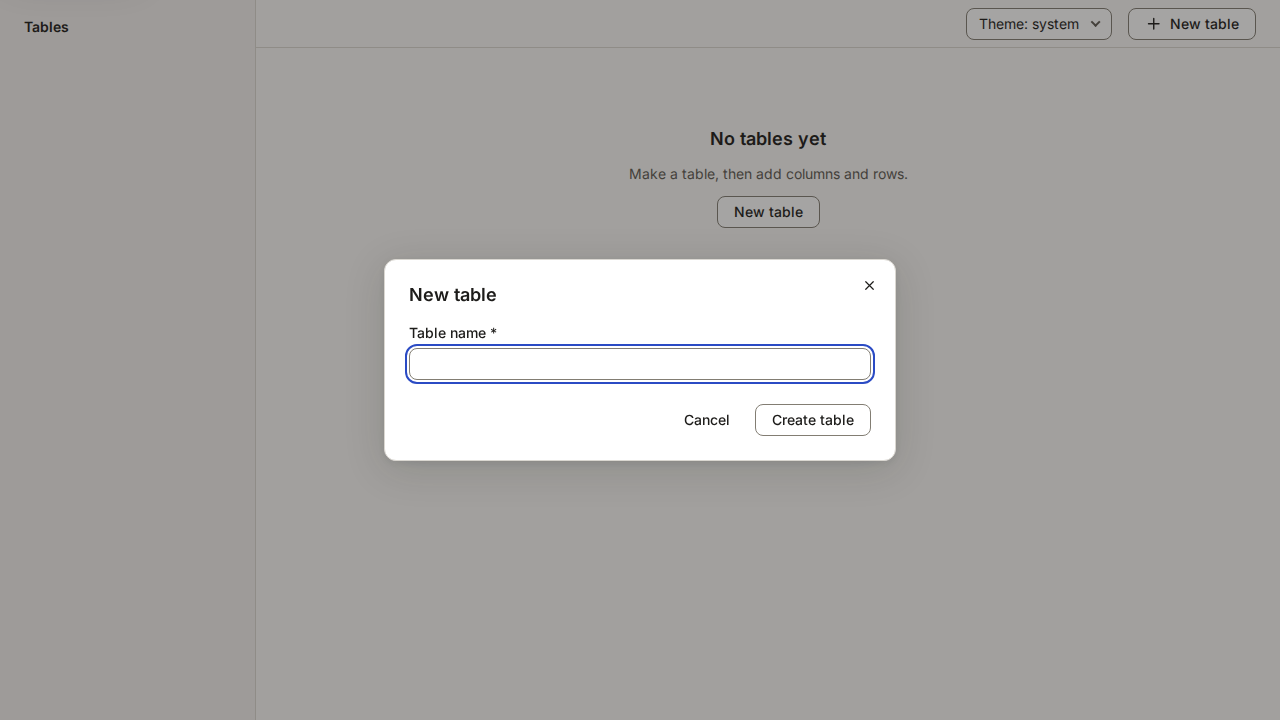
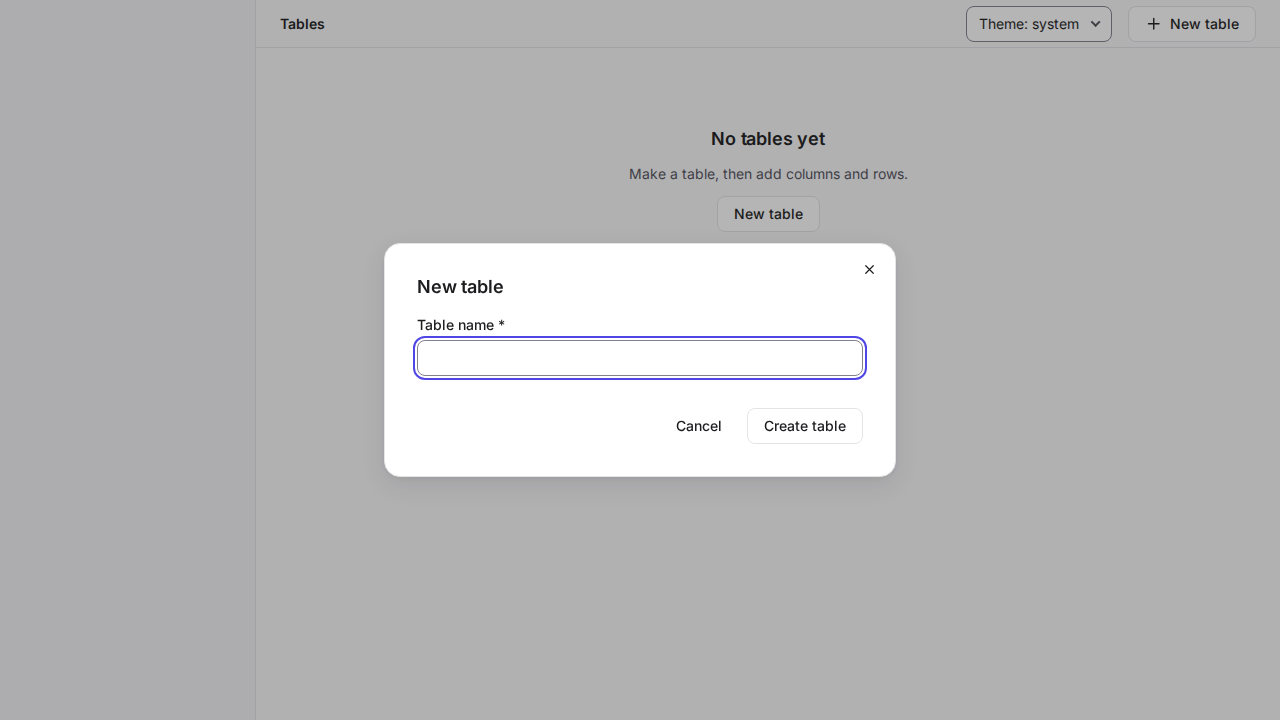
[TABLES-117] Accept agentic-design 0.8 and release 0.13.1
The agentic-design range was ^0.5.0, which does not accept the newest
agentic-design on npm. The agentic-* packages could not be installed
together (ERESOLVE). Raise the range to ^0.8.0 and update the lockfile.

The UI builds on agentic-design 0.8. The 0.7 top-bar fix for narrow
screens is the only UI change the bundle picks up. Refresh the UI
screenshots that the Playwright suite writes.

Bump the patch version to 0.13.1 in package.json, package-lock.json,
server.json, and the README status line. Move the unreleased subpath
export table note (#113) into the 0.13.1 section, since it ships in
this release.

diff --git a/CHANGELOG.md b/CHANGELOG.md
@@ -1,10 +1,16 @@
 # Changelog
 
-## Unreleased
+## 0.13.1 - 2026-10-29
+
+Patch. No change to the API. The bundled web UI picks up the `agentic-design` 0.7 narrow-screen fixes for the top bar.
 
 ### Added
 
 - The README has a table of every subpath export in `package.json`, with what each one is for (#113).
+
+### Changed
+
+- The `agentic-design` dependency is now `^0.8.0`. Before, `^0.5.0` did not accept the newest `agentic-design`, so the `agentic-*` packages could not be installed together (ERESOLVE). The web UI builds on `agentic-design` 0.8 and passes its accessibility checks.
 
 ## 0.13.0
 

diff --git a/README.md b/README.md
@@ -7,7 +7,7 @@
 
 Typed tables that agents read and write as rows.
 
-> Status: release 0.13.0. See [CHANGELOG.md](CHANGELOG.md) for the changes.
+> Status: release 0.13.1. See [CHANGELOG.md](CHANGELOG.md) for the changes.
 >
 > **The Worker checks every request.** It needs `Authorization: Bearer <token>`, and `agentic-identity` verifies the
 > token against credentials in the same store. A request with no valid token gets `401`. A token without the scope
